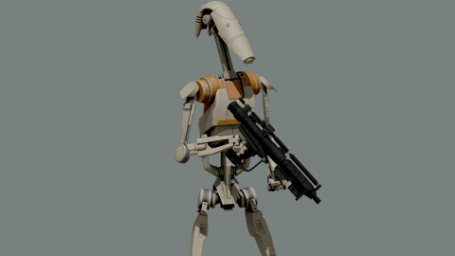
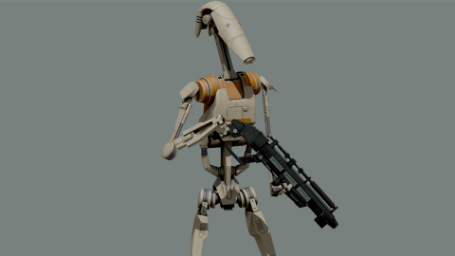
Replaced E-5 with SB-B3

diff --git a/addons/factions/cis/configs/Units.hpp b/addons/factions/cis/configs/Units.hpp
@@ -321,6 +321,26 @@ class CLASS(CIS_Unit_Droid_B1_Engineer): CLASS(CIS_Unit_Droid_B1) {
 
     engineer = TRUE;
 
+    weapons[] = {
+        QCLASS(SBB3),
+        "Throw",
+        "Put"
+    };
+    respawnWeapons[] = {
+        QCLASS(SBB3),
+        "Throw",
+        "Put"
+    };
+
+    magazines[] = {
+        ITEM_5(QCLASS(Mag_25rnd_SBB3)),
+        "ls_mag_classC_thermalDet"
+    };
+    respawnMagazines[] = {
+        ITEM_5(QCLASS(Mag_25rnd_SBB3)),
+        "ls_mag_classC_thermalDet"
+    };
+
     items[] = {"ToolKit"};
     respawnItems[] = {"ToolKit"};
 
